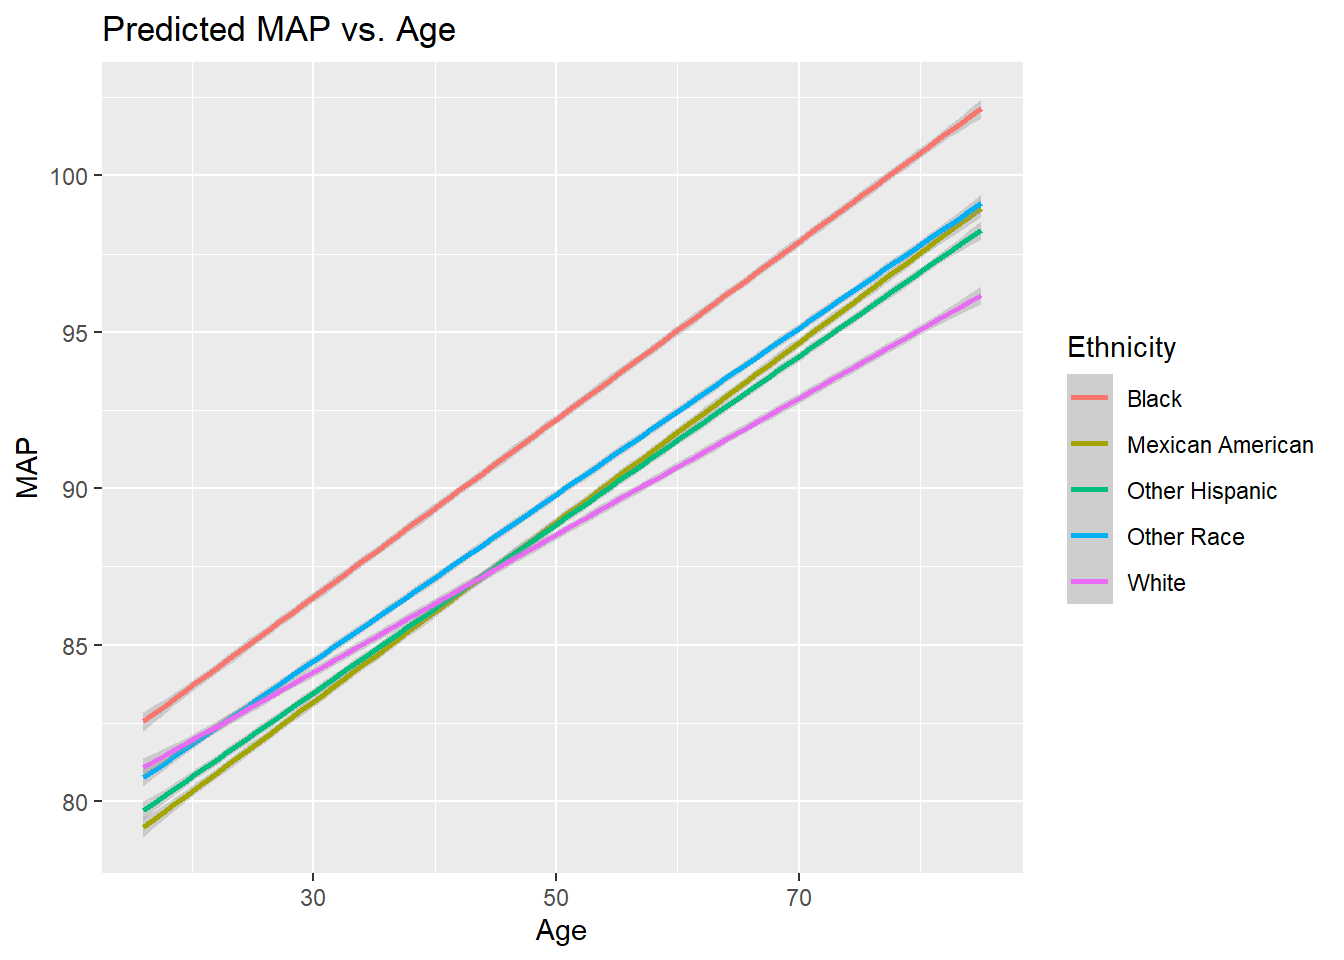
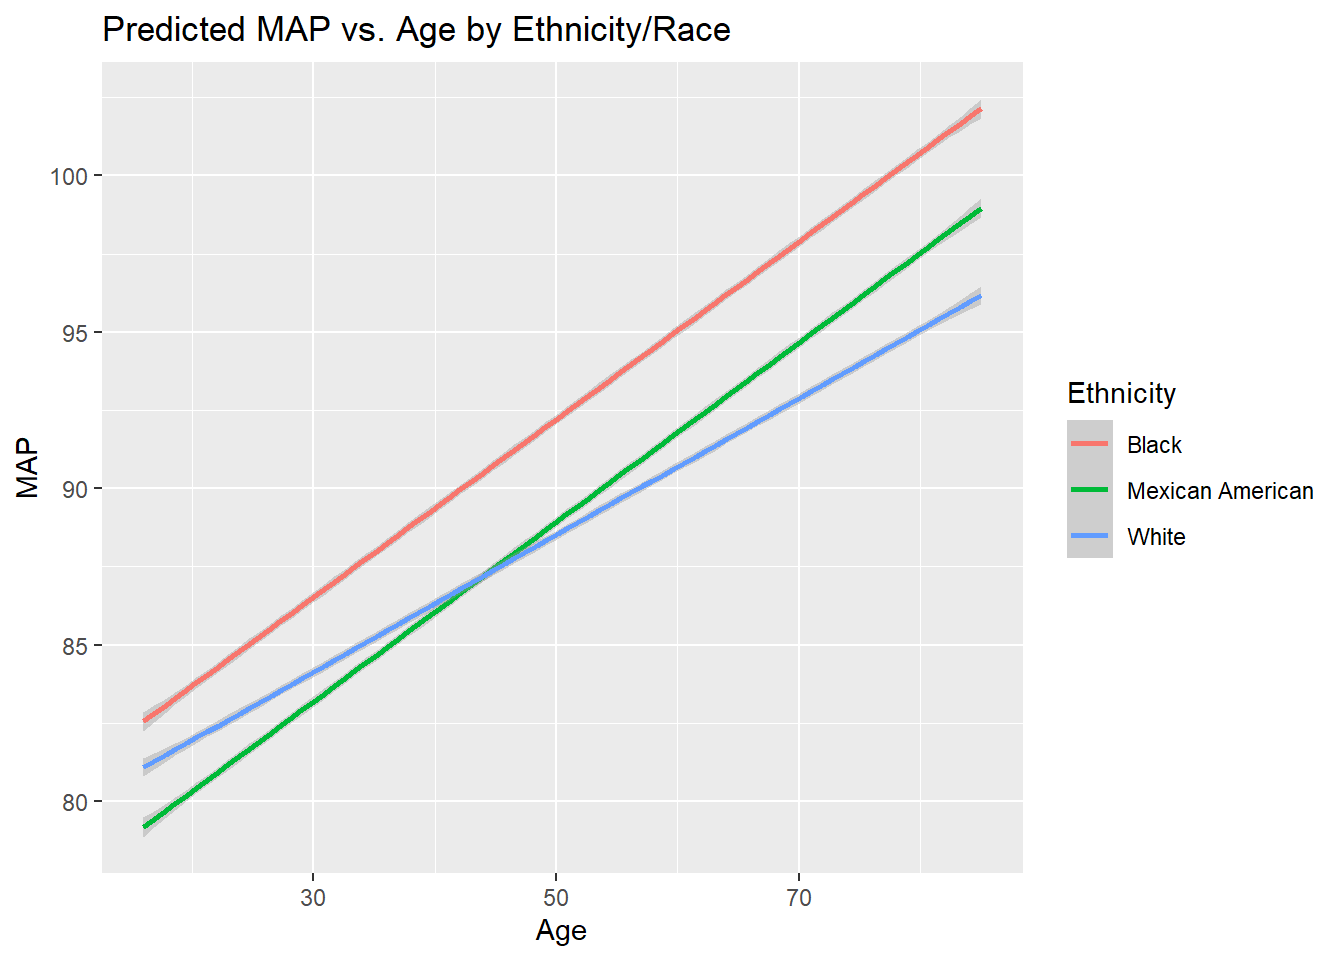
big picture

diff --git a/content/big_picture.html b/content/big_picture.html
@@ -2,7 +2,7 @@
 title: Big Picture
 description:
 toc: true
-featuredImage: images/heart.jpg
+featuredImage: /images/heart.jpeg
 featuredVideo:
 draft: false
 ---
@@ -14,11 +14,26 @@ draft: false
 
 <div id="the-land-of-equality-except-in-health" class="section level2">
 <h2>THE LAND OF EQUALITY (EXCEPT IN HEALTH)</h2>
-<p>Access and availability of healthcare is an essential human right. Sickness is and has been an inevitable part of the human experience, and modern advances in public health and medicine have allowed us to combat many of these illnesses. In the United States, we have the ability to administer life-saving treatments with relative ease; hundreds of billions of dollars go towards researching medical technology and establishing healthcare institutions (i.e. hospitals). Thus, we would expect that, with all the capital going into general health, everyone in the US would have equal access to healthcare. However, such idealism never manifests in reality, and the recent pandemic has only served to expose the inequalities in all of our institutions. Statistics from the CDC show that when compared to white individuals, blacks, hispanics, and native americans were about 1.5x more at risk for catching the disease, over 2x more at risk of being hospitalized, and nearly 2x more at risk of death as of Nov. 8, 2022. Given the gross inequality demonstrated over the past 3 years, our group wanted to analyze health trends in the United States over the past 20 years to evaluate differences in health outcomes by race while considering covariates like age and time of data collection. The results of our analysis shown that health outcomes differ by race when considering the effects of other variables/covariates, pointing to some kind of systemic racism within our national healthcare system that has existed for at least the past 20 years.</p>
+<p>Access and availability of healthcare is an essential human right. Sickness is and has been an inevitable part of the human experience, and modern advances in public health and medicine have allowed us to combat many of these illnesses. In the United States, we have the ability to administer life-saving treatments with relative ease; hundreds of billions of dollars go towards researching medical technology and establishing healthcare institutions (i.e. hospitals). Thus, we would expect that, with all the capital going into general health, everyone in the US would have equal access to healthcare. However, such idealism never manifests in reality, and the recent pandemic has only served to expose the inequalities in all of our institutions. Statistics from the CDC show that when compared to white individuals, blacks, hispanics, and native americans were about 1.5x more at risk for catching the disease, over 2x more at risk of being hospitalized, and nearly 2x more at risk of death as of Nov. 8, 2022. Given the gross inequality demonstrated over the past 3 years, our group wanted to analyze health trends in the United States over the past 20 years to evaluate differences in health outcomes by race while considering covariates like age and time of data collection. The results of our analysis show that health outcomes differ by race when considering the effects of other variables/covariates, pointing to some kind of systemic racism within our national healthcare system that still exists in the present.</p>
 </div>
 <div id="a-broken-heart-among-other-issues" class="section level2">
 <h2>A BROKEN HEART, AMONG OTHER ISSUES</h2>
+<p>The primary health outcome that our group decided to model and analyze was blood pressure. Cardiovascular disease is listed by the CDC as the number one cause of death in the US, and many heart disorders stem from elevated blood pressure levels. Specifically, we calculated and analyzed a value called mean arterial pressure (MAP), which is a weighted average of systolic and diastolic blood pressure. All data comes from the National Health and Nutrition Examination Survey (NHANES), a biannual program run by the CDC that estimates the health status of the entire US; more information about NHANES can be found in our Data page. First, we created a multiple linear regression model using participant race/ethnicity, age, gender, year of data collection, and the interaction between ethnicity and age as predictors for MAP. As mentioned earlier, our primary focus is on the association between race/ethnicity and MAP; all other variables mentioned were added to the model as possible covariates to limit confounding. The results of our regression analysis can be seen in the plot below.</p>
 <p><img src="/big_picture_files/figure-html/unnamed-chunk-1-1.png" width="672" /></p>
+<p>The plot above shows our predicted values for MAP as a function of age for three groups: white, black, and mexican american. As mentioned in the previous paragraph, elevated blood pressure (MAP in this case) is known to cause a variety of cardiovascular issues. Even after adjusting for a number of known covariates of blood pressure like age and gender, there is a clear inflation of blood pressure values for non-white participants when compared to white participants. Furthermore, black individuals are predicted to have inflated values for MAP at all ages when compared to the other two groups, pointing toward some kind of social force that leads to negative health outcomes. This model has also been adjusted for the year of data collection, so this systematic increase in MAP for black individuals is present regardless of any temporal factors.
+<br>
+<br>
+To further continue our data analysis, our group decided to look at how government expenditure on general health has changed over the years of NHANES collection. Using data taken from the World Bank, we created the plot shown below.
+<img src="/big_picture_files/figure-html/MAPvsEx_sidebyside-1.png" width="672" />
+Our original hypothesis was that increased government expenditure on health would lead to decreased levels of MAP for the entire sample of participants, but our analysis did not yield significant results. We did, however, find that government expenditure on health increased over time as seen in the plot above. Despite the increase in expenditure over the years, the gap in health outcomes between black and white participants were still significant, pointing toward some institutional factors related to inflated MAP levels for black individuals.</p>
+</div>
+<div id="interactive" class="section level2">
+<h2>INTERACTIVE</h2>
+<p>We have also created an interactive plot for personalized exploration of our dataset found <a href="https://swej.shinyapps.io/swej_interactive/">here</a>. A video demonstration of this interactive is linked <a href="link%20video%20when%20done">here</a></p>
+</div>
+<div id="concluding-remarks" class="section level2">
+<h2>CONCLUDING REMARKS</h2>
+<p>Our modelling suggests that black individuals are predicted to have worse outcomes for cardiovascular health (i.e. increased values for MAP) when compared to other races/ethnicities. In our current paradigm of race, we understand that race does not play a direct role in physiological outcomes; instead, environmental and social factors associated with race are the true culprits of inequity for health outcomes. One factor contributing to this inequity may be an inequal distribution of funds for healthcare by race. Despite government spending on healthcare increasing over the past 20 years, the racial gap remains significant. Further analysis should consider additional sociological factors associated with each individual like access to health care and income in an effort to further determine the true causes of this inequality.</p>
 <hr />
 </div>
 <div id="rubric-on-this-page" class="section level2">
@@ -47,7 +62,7 @@ draft: false
 </div>
 <div id="rubric-other-components" class="section level2">
 <h2>Rubric: Other components</h2>
-<div id="interactive" class="section level3">
+<div id="interactive-1" class="section level3">
 <h3>Interactive</h3>
 <p>You will also be required to make an interactive dashboard like <a href="/flex/flex.html">this one</a>.</p>
 <p>Your Big Data page should include a link to an interactive dashboard. The dashboard should be created either using Shiny or FlexDashboard (or another tool with professor’s approval). This interactive component should in some way support your thesis from your big picture page. Good interactives often provide both high-level understanding of the data while allowing a user to investigate specific scenarios, observations, subgroups, etc.</p>
